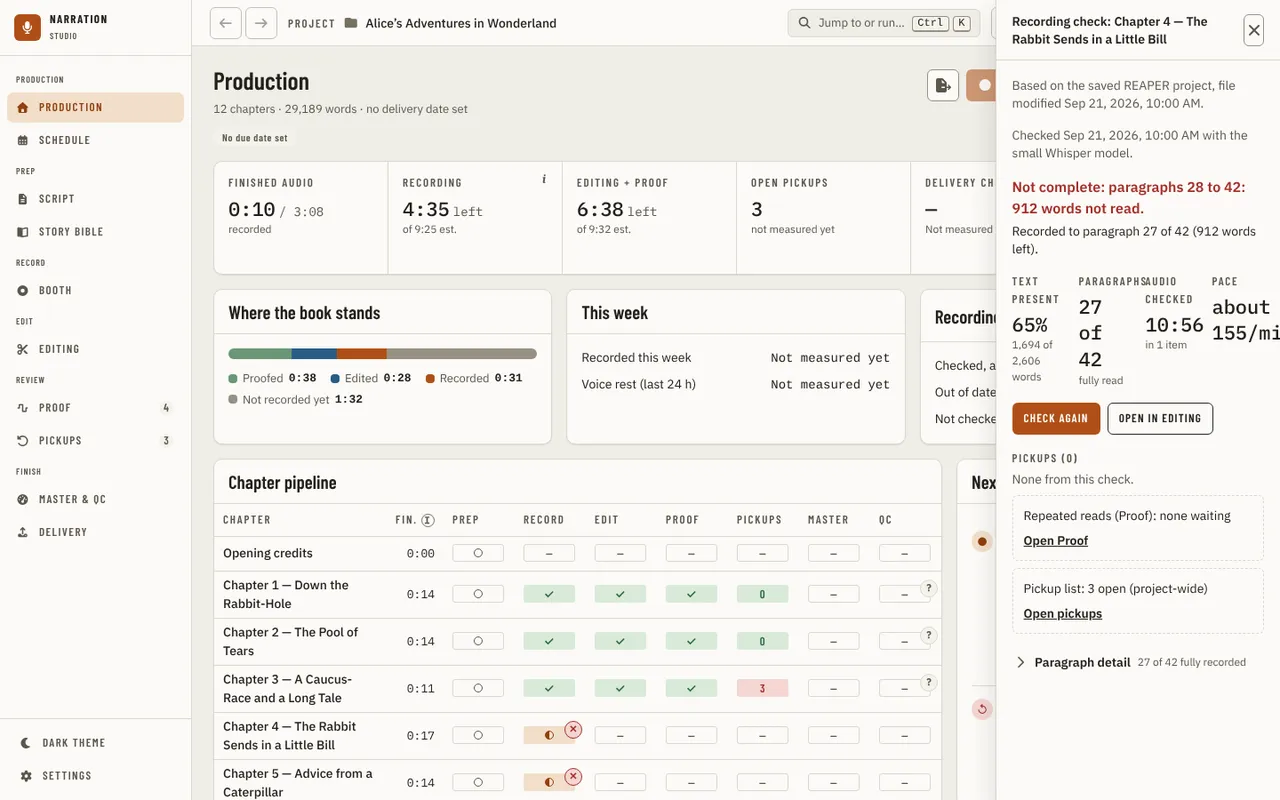
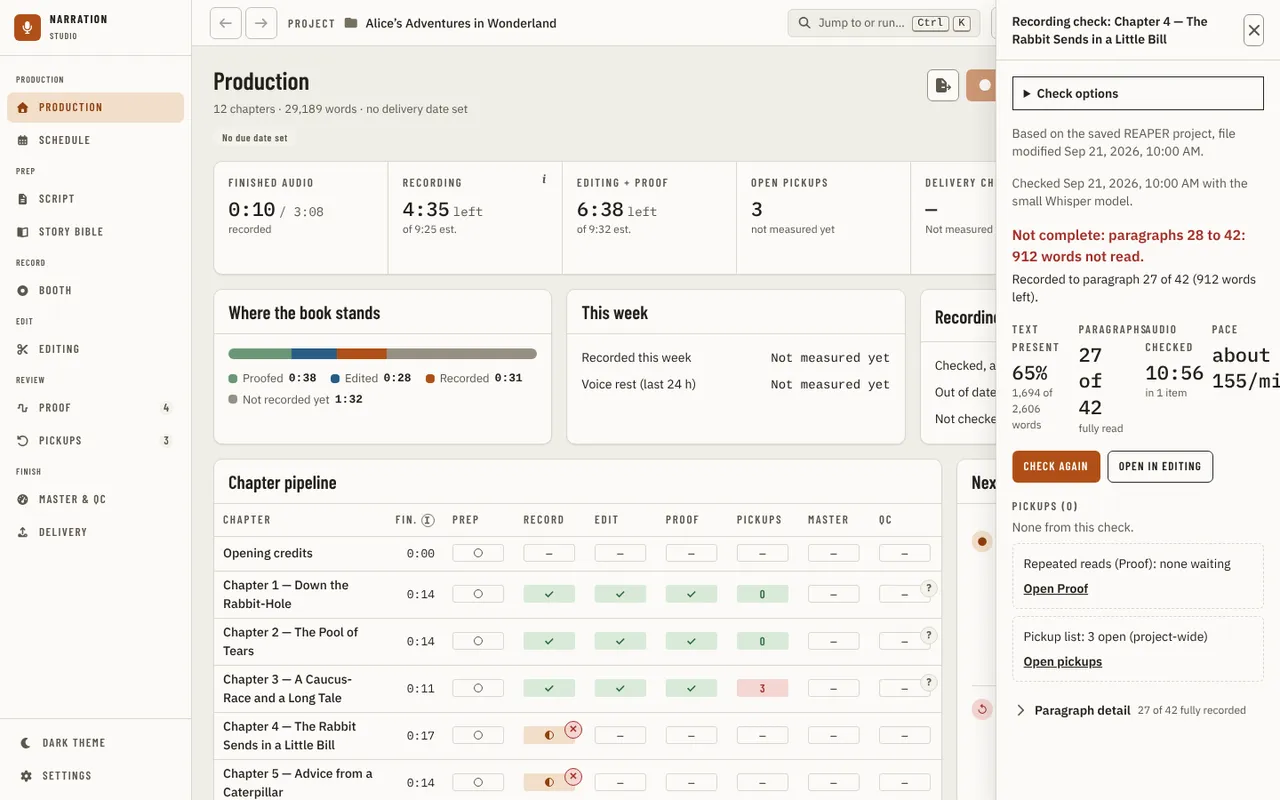
docs(coverage): guide images for the check options and the Check recordings dialog
Regenerate the Production recording-check images, add the options-open panel and the Proof
Check recordings dialog, and embed them in the Production guide.

Fix two layout defects the new states exposed: the options' three selects were clipped in the
narrow panel (they now stack in a narrow container), and the dialog's "not measured" note sat
inside a definition list (an axe failure), so it moves below it.

Docs: none — the guide text did not change beyond the two embeds; no data file or schema moved.

Claude-Session: https://claude.ai/code/session_01Hjf4iMnsZJvUwK2ppbVwov

Changed region(s): [[0.7812, 0.0938, 1.0, 0.8438], [0.8125, 0.875, 0.9688, 0.9062]]

diff --git a/apps/ui/src/components/recordingcheck/RunOptions.tsx b/apps/ui/src/components/recordingcheck/RunOptions.tsx
@@ -45,7 +45,7 @@ export function RunOptions({
   const blocker = findProblem(choices, engines);
   const problem = blocker && (showInstallProblems || !blocker.needsInstall) ? blocker.message : undefined;
   return (
-    <div className="flex min-w-0 flex-col gap-3">
+    <div className="@container flex min-w-0 flex-col gap-3">
       <label className="flex flex-col gap-1">
         <span className={LABEL}>Speech model</span>
         <Select label="Speech model" fullWidth value={choices.model} onChange={(model) => onChange({ model })} options={engineOptions(engines.engines)} />
@@ -81,7 +81,7 @@ export function RunOptions({
           </label>
         </div>
       ) : null}
-      <fieldset className="m-0 grid min-w-0 grid-cols-3 gap-3 border-0 border-t border-[var(--line)] p-0 pt-3">
+      <fieldset className="m-0 grid min-w-0 grid-cols-1 gap-3 border-0 border-t border-[var(--line)] p-0 pt-3 @sm:grid-cols-3">
         <legend className="sr-only">Long recordings</legend>
         <label className="flex flex-col gap-1">
           <span className={LABEL}>Chunk length</span>
@@ -118,7 +118,7 @@ export function RunOptions({
             options={withChoice(OVERLAP_SECONDS, choices.overlapSeconds).map((seconds) => ({ value: String(seconds), label: `${seconds} s` }))}
           />
         </label>
-        <p className="col-span-3 m-0 text-[var(--text-muted)]">
+        <p className="m-0 text-[var(--text-muted)] @sm:col-span-3">
           Chunks overlap by the crossover so a word on an edge is whole in one of them; each process transcribes its own chunks.
         </p>
         <label className="flex flex-col gap-1">
@@ -131,7 +131,7 @@ export function RunOptions({
             options={withChoice(CHAPTERS_AT_ONCE, choices.chapters).map((count) => ({ value: String(count), label: String(count) }))}
           />
         </label>
-        <p className="col-span-2 m-0 self-end text-[var(--text-muted)]">Chapters share the processors, so more at once means fewer processes for each.</p>
+        <p className="m-0 self-end text-[var(--text-muted)] @sm:col-span-2">Chapters share the processors, so more at once means fewer processes for each.</p>
       </fieldset>
       <p className="m-0">{runSummary(choices, engines)}</p>
       {problem ? (

diff --git a/apps/ui/src/components/recordingcheck/CheckRecordingsDialog.tsx b/apps/ui/src/components/recordingcheck/CheckRecordingsDialog.tsx
@@ -173,12 +173,12 @@ export function CheckRecordingsDialog({ preselected, close }: { preselected: rea
                 <dt>Audio to check</dt>
                 <dd className="m-0 font-mono">{audio.seconds === 0 && audio.unmeasured > 0 ? 'Not measured' : formatAudio(audio.seconds)}</dd>
               </div>
-              {note ? <p className="m-0 text-[var(--text-muted)]">{note}</p> : null}
               <div className="flex justify-between gap-3">
                 <dt>Estimated time</dt>
                 <dd className="m-0 font-mono">Not measured yet</dd>
               </div>
             </dl>
+            {note ? <p className="m-0 text-[var(--text-muted)]">{note}</p> : null}
           </div>
           <div className="flex min-w-0 flex-col gap-2">
             <div className="flex items-center gap-2">

diff --git a/apps/ui/tests/visual/drivers/production.ts b/apps/ui/tests/visual/drivers/production.ts
@@ -202,6 +202,12 @@ export const productionDrivers: Record<string, Driver> = {
     await dialog.getByText(/^Recorded to paragraph \d+ of \d+/).waitFor();
     await dialog.getByText('Pickups (0)').waitFor();
   },
+  // The options a chapter's own panel shares with the Check recordings dialog, opened from the closed "Check options" line.
+  'recording-check-options': async (page) => {
+    const dialog = await openRecordingCheck(page, 'Chapter 4');
+    await dialog.getByText('Check options').click();
+    await dialog.getByRole('combobox', { name: 'Chapters at once' }).waitFor();
+  },
   'recording-check-pickups': async (page) => {
     const dialog = await openRecordingCheck(page, 'Chapter 4', 'mockCoverage=pickups');
     await dialog.getByText('Pickups (2)').waitFor();

diff --git a/apps/ui/tests/visual/catalog/production.ts b/apps/ui/tests/visual/catalog/production.ts
@@ -185,6 +185,12 @@ export const productionStates: StateEntry[] = [
   },
   {
     page: 'production',
+    state: 'recording-check-options',
+    description:
+      "Production, a chapter's recording check panel with its Check options section open: Speech model, Larger model, the score under which words are looked at again, Chunk length, Parallel processes, Crossover and Chapters at once",
+  },
+  {
+    page: 'production',
     state: 'recording-check-pickups',
     description:
       'Production, recording check result with interior gaps (?mockCoverage=pickups): a skip and a short read listed one per line under Pickups, each with Go to paragraph, alongside a small unread tail stated in the summary, not listed',

diff --git a/apps/ui/tests/visual/catalog/proof.ts b/apps/ui/tests/visual/catalog/proof.ts
@@ -46,6 +46,13 @@ export const proofStates: StateEntry[] = [
   },
   {
     page: 'proof',
+    state: 'check-recordings-dialog',
+    description:
+      "Proof, Chapter 4, the queue's Check recordings dialog before a run: the chapters to check and the shared options (speech model, larger model, chunk length, parallel processes, crossover, chapters at once)",
+    ...REFLOW,
+  },
+  {
+    page: 'proof',
     state: 'check-checking',
     description:
       "Proof, Chapter 4 while its recording check runs (?mockCoverage=hold, started from the queue's Check recordings): the Check recordings dialog running over the page, the card behind it in its checking state",

diff --git a/apps/ui/tests/visual/drivers/proof.ts b/apps/ui/tests/visual/drivers/proof.ts
@@ -78,6 +78,12 @@ export const proofDrivers: Record<string, Driver> = {
     await openChapter(page, 'Chapter 7');
     await page.getByText('Not checked yet').waitFor();
   },
+  'check-recordings-dialog': async (page) => {
+    await openProof(page);
+    await openChapter(page, 'Chapter 4');
+    await notes(page).getByRole('button', { name: 'Check recordings…' }).click();
+    await page.getByRole('dialog').getByRole('combobox', { name: 'Chapters at once' }).waitFor();
+  },
   'check-checking': async (page) => {
     await openProof(page, 'mockCoverage=hold');
     await openChapter(page, 'Chapter 4');

diff --git a/docs/guides/using-the-app/production.md b/docs/guides/using-the-app/production.md
@@ -162,6 +162,8 @@ A chapter's recording check panel has the same choices under **Check options**, 
 what they show. **Chapters at once** is how many chapters may be checked together when this one starts, itself included: with the default of 1 the
 button waits for a chapter being checked elsewhere, and says so, and above 1 it starts beside them.
 
+![Production - a chapter's recording check with Check options open](../../images/ui/production-recording-check-options.webp)
+
 **Check recordings** (the card's icon) lets you set up the run before it starts. **Speech model** is the
 first pass. **Look again with a larger model** adds a second pass: the **Larger model** transcribes again only
 the passages that are missing and the words Whisper scored under the **Also look again at words scored under**
@@ -170,6 +172,8 @@ many Whisper copies work on the pieces at once (each holds the whole model in me
 much neighbouring pieces overlap, so a word on an edge is whole in one of them. A line under the choices says
 what will run, in words. **Chapters at once** checks that many of the ticked chapters together, each with its own share of the processors, and starts the next as each ends. The boxes start at the values in Settings, and the check runs exactly what the dialog
 shows, so the same chapter is checked the same way wherever you start it, including in the background.
+
+![Proof - the Check recordings dialog before a run, with the options shared with every page](../../images/ui/proof-check-recordings-dialog.webp)
 
 With Settings' **Two-pass check** turned on ([Settings](settings.md)), a check instead runs a fast
 first pass, then re-checks only whatever it reports missing with a stronger model: the progress
